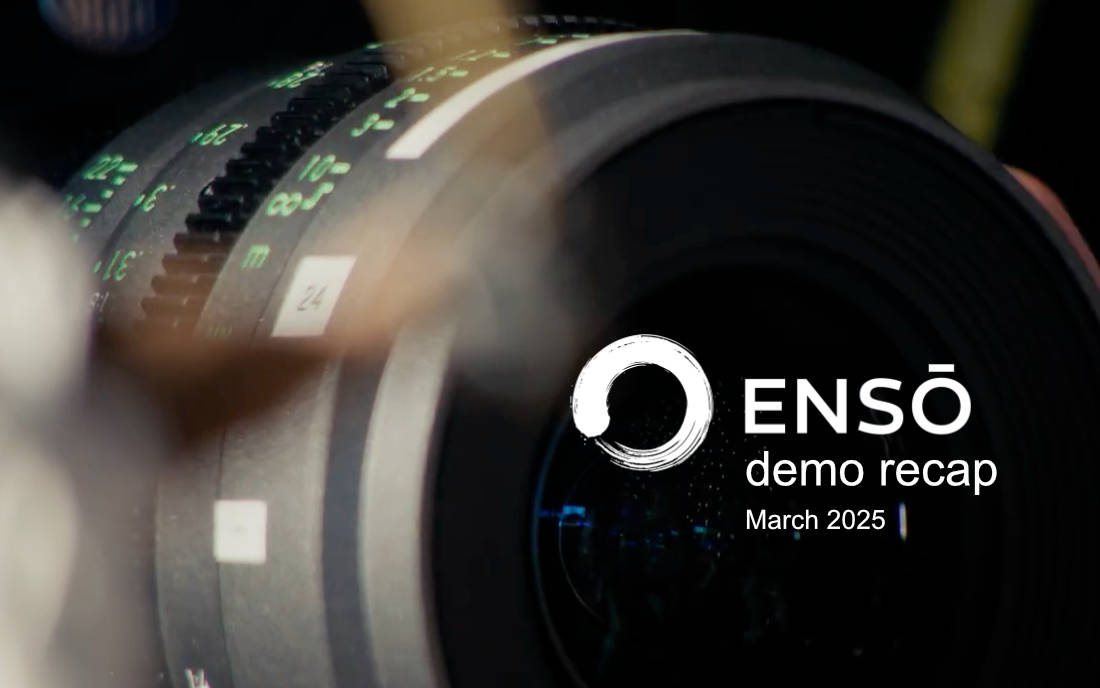
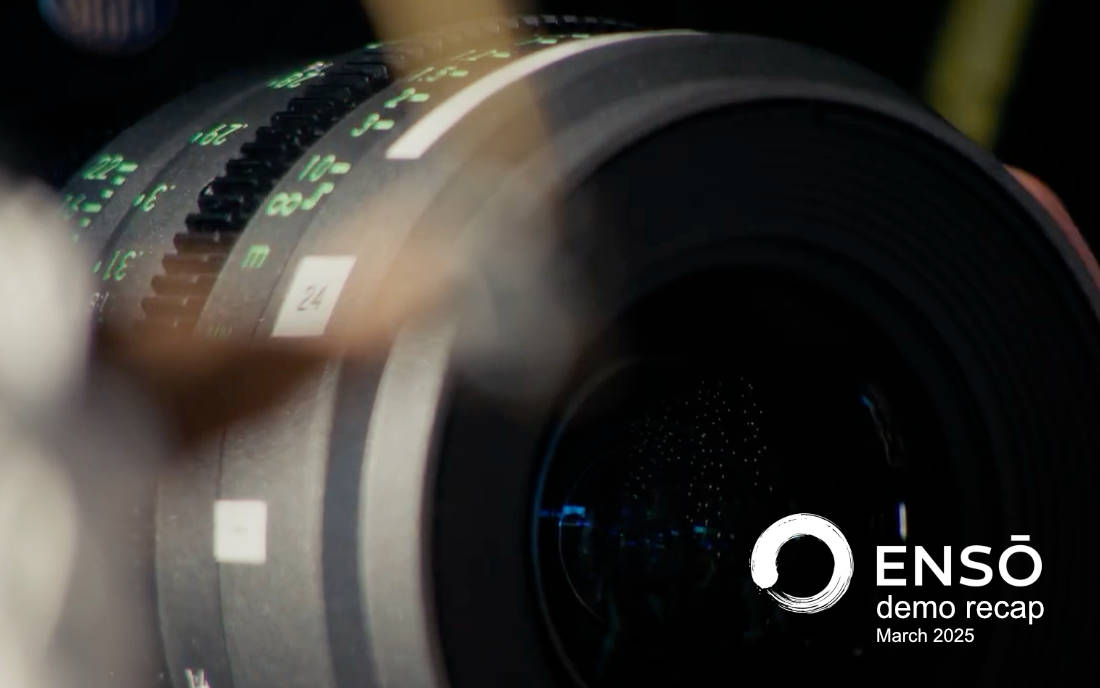
slide show tweaks

Changed region(s): [[0.4945, 0.4884, 0.9273, 0.7326], [0.68, 0.7326, 0.9582, 0.9462]]

diff --git a/community.html b/community.html
@@ -103,7 +103,7 @@
 		<li class="glide__slide" data-category="all events"> <img src="img/slides/social/40wide.jpg" class="tn5image" alt=""></li>
 		<li class="glide__slide" data-category="all events">	<img src="img/slides/social/mifia.jpg" class="tn5image" alt=""></li>
 		<li class="glide__slide" data-category="all events">	<img src="img/slides/social/shawn.jpg" class="tn5image" alt=""></li>
-		<li class="glide__slide video-slide" data-category="all events">	<a href="#" onclick="openiframeModal('https://www.youtube.com/embed/CGKWqx6Bt0A?autoplay=1'); return false;"> <img src="img/slides/social/enso.jpg" class="tn5image" alt="Watch video from the Stratton Camera Ensō event"></a></li>
+		<li class="glide__slide video-slide" data-category="all events"><a href="#" onclick="openiframeModal('https://www.youtube.com/embed/Mcvxo2bsjjI?si=6g-cPi0T-x0fSLti'); return false;"> <img src="img/slides/social/40recap.jpg" class="tn5image" alt="Watch video from the Stratton Camera 40th aniversary party"></a></li>
 		<li class="glide__slide" data-category="all friends">	<img src="img/slides/social/kylerick.jpg" class="tn5image" alt=""></li>
 		<li class="glide__slide" data-category="all friends">	<img src="img/slides/social/bradshawn.jpg" class="tn5image" alt=""></li>
 		<li class="glide__slide" data-category="all events history">	<img src="img/slides/social/daviau.jpg" class="tn5image" alt=""></li>
@@ -119,6 +119,7 @@
 		<li class="glide__slide" data-category="all events">	<img src="img/slides/social/cooke.jpg" class="tn5image" alt=""></li>
 		<li class="glide__slide" data-category="all events">	<img src="img/slides/social/fletchers.jpg" class="tn5image" alt=""></li>
 		<li class="glide__slide" data-category="all events">	<img src="img/slides/social/sony.jpg" class="tn5image" alt=""></li>
+		<li class="glide__slide video-slide" data-category="all events"><a href="#" onclick="openiframeModal('https://www.youtube.com/embed/CGKWqx6Bt0A?autoplay=1'); return false;"> <img src="img/slides/social/enso.jpg" class="tn5image" alt="Watch video from the Stratton Camera Ensō event"></a></li>
 		<li class="glide__slide" data-category="all friends"><img src="img/slides/social/brandon.jpg" class="tn5image" alt=""></li>
 		<li class="glide__slide" data-category="all friends"><img src="img/slides/social/dianegroup.jpg" class="tn5image" alt=""></li>
 		<li class="glide__slide" data-category="all history"><img src="img/slides/social/sign.jpg" class="tn5image" alt=""></li>

diff --git a/sw.js b/sw.js
@@ -18,7 +18,7 @@
 ////////////////////////////////////////////////////////////////////////////////
 // VERSIONED CACHES
 ////////////////////////////////////////////////////////////////////////////////
-const SW_VERSION = 'v14.3';
+const SW_VERSION = 'v14.4';
 
 const PRECACHE = `precache-${SW_VERSION}`;
 const RUNTIME  = `runtime-${SW_VERSION}`;

diff --git a/css/glide.css b/css/glide.css
@@ -172,8 +172,8 @@
     width: clamp(42px, 8vw, 100px);
 	height: clamp(44px, 8.3vw, 104px);
     left: 50%;
-    top: 20%;
-    transform: translate(-50%, -20%);
+    top: 50%;
+    transform: translate(-50%, -50%);
     background: url("../img/watch.png") no-repeat center;
     background-size: contain;
     opacity: 1;
